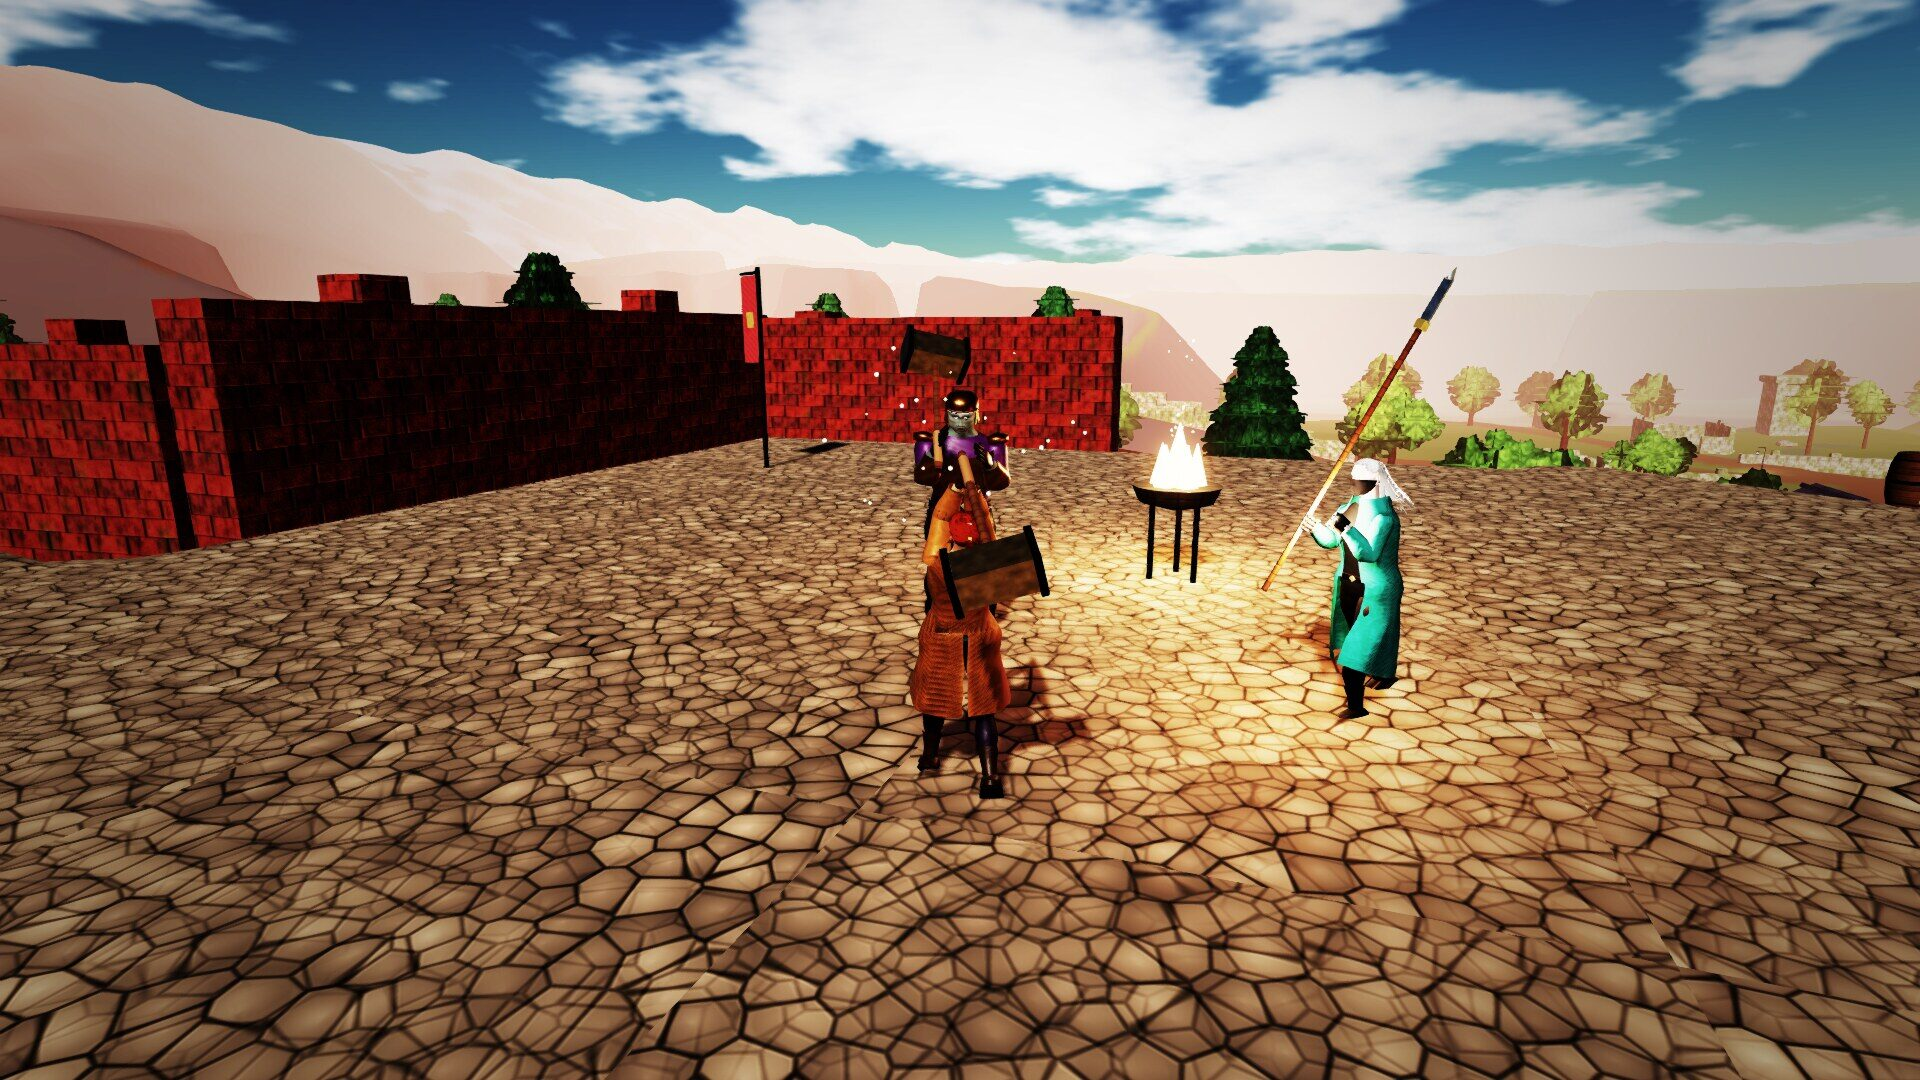
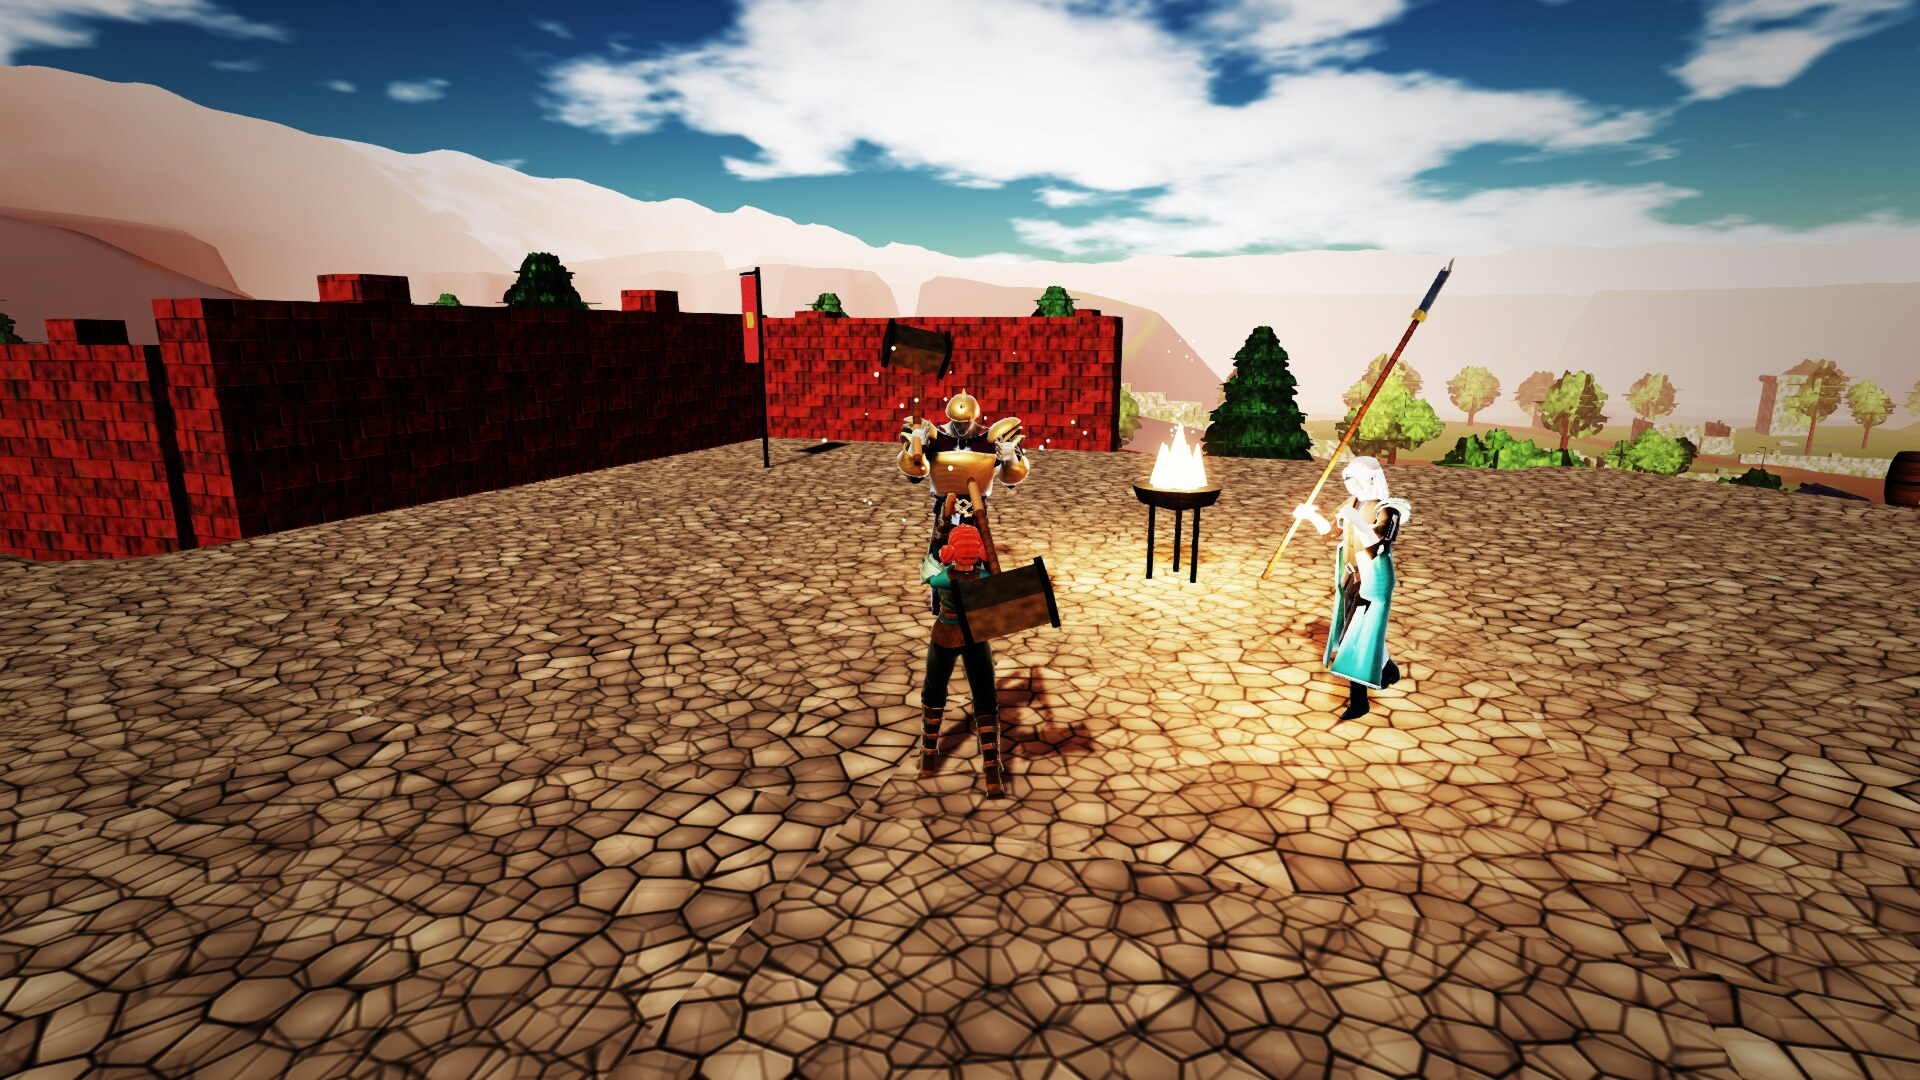
emberthrone: launcher art and the README screenshot from the new cast
capture-art.sh frames the hero's close shot on the wayfarer herself and
make-art.mjs crops the icon round her face.

diff --git a/README.md b/README.md
@@ -85,7 +85,7 @@ par.
 
 ### Ember Throne
 
-![Ember Throne: the wayfarer and the warden at the keep's brazier, a raider coming at them](docs/screenshots/emberthrone.jpg)
+![Ember Throne: the wayfarer at the keep's brazier between a brute and a lancer](docs/screenshots/emberthrone.jpg)
 
 A third-person action adventure through one connected world for one player,
 with a second able to drop in. The wanderer gathers the Sun Key and the Moon Key
